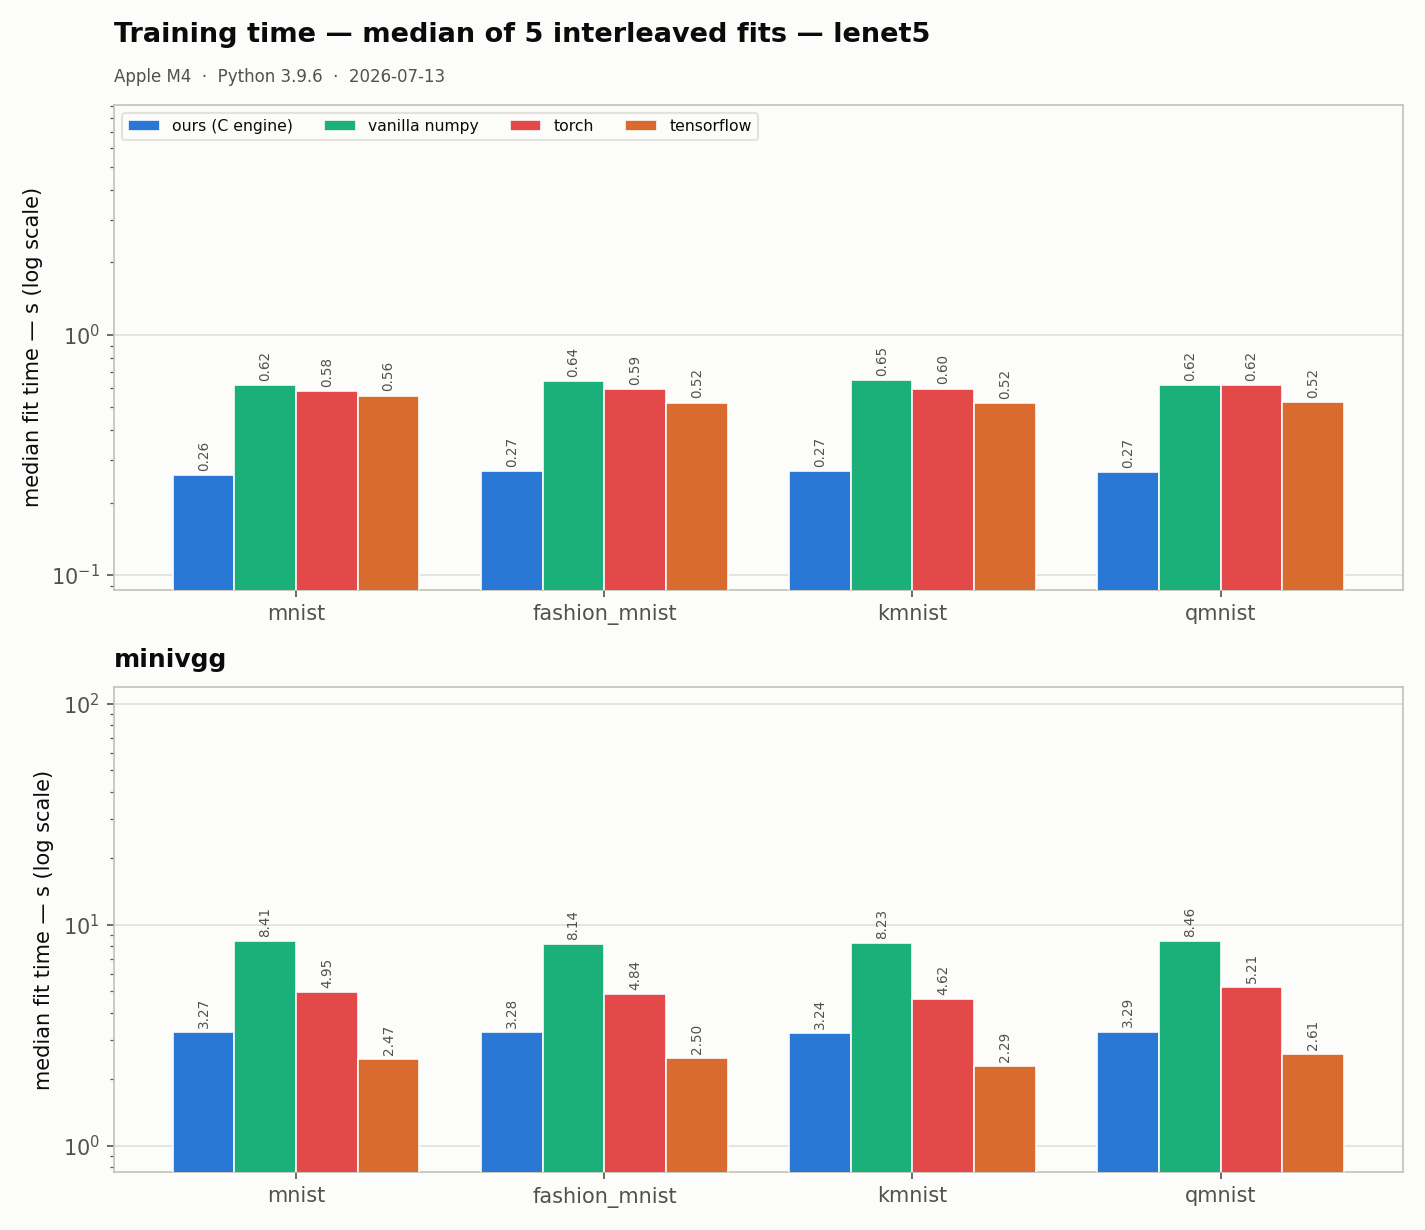
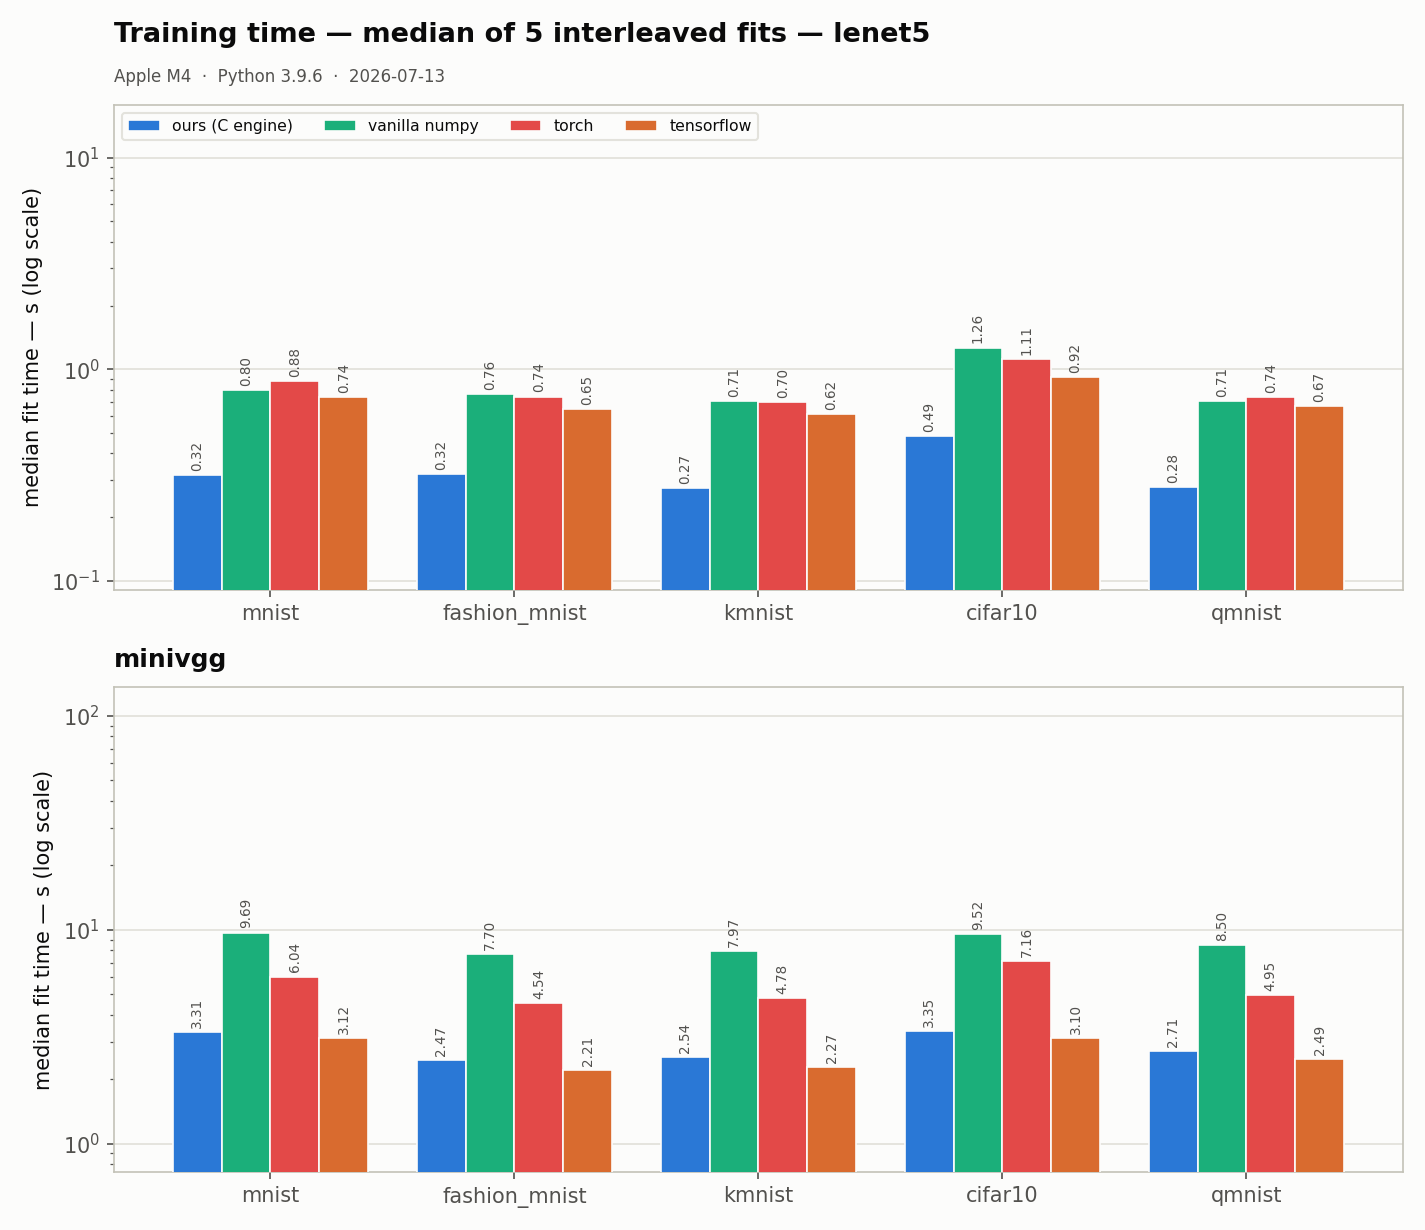
docs: v0.2.2 benchmark refresh — the VGG gap closes to a photo finish
Full re-run of the official protocol (5 interleaved repeats, identical
Sequential structure everywhere, CPU only) on mantissa 0.2.2, the
conv-GEMM release. As measured:

- minivgg/cifar10: ours 3.35 s fit / 165.9 ms predict vs tensorflow's
  3.10 / 160.4 — the 1.3x fit and 1.6x predict gaps recorded by the
  previous run close to 8% and 3%, at 47% less peak RSS (491 vs 923 MB).
  torch eager trails 2.1x.
- lenet5/mnist: ours 0.317 s vs torch 0.882 / tf 0.741 (2.3-2.8x),
  predict 10.2 ms — the small-net lead widens.
- Accuracy identical to the previous run for every contender (the
  engine rework is numerics-preserving at the training level).

Narrative updated to credit what changed and name what remains
(Winograd territory); plots regenerated from the new JSONs.

diff --git a/README.md b/README.md
@@ -187,19 +187,19 @@ convolutional layers, so it cannot run these architectures.
 
 | contender | fit (s) ↓ | predict (ms) ↓ | peak RSS (MB) ↓ | test acc |
 |-----------|----------:|---------------:|----------------:|---------:|
-| **ours (mantissa)** | **0.261** | **12.8** | **164** | 0.782 |
-| tensorflow | 0.558 | 49.8 | 619 | 0.846 |
-| torch | 0.582 | 16.2 | 372 | 0.762 |
-| vanilla numpy | 0.615 | 44.1 | 171 | 0.782 |
+| **ours (mantissa)** | **0.317** | **10.2** | **165** | 0.782 |
+| tensorflow | 0.741 | 69.4 | 496 | 0.846 |
+| torch | 0.882 | 22.8 | 340 | 0.762 |
+| vanilla numpy | 0.795 | 53.5 | 177 | 0.782 |
 
 **Mini-VGG on CIFAR-10** (32×32 RGB — the heavy, 3×3-block workload):
 
 | contender | fit (s) ↓ | predict (ms) ↓ | peak RSS (MB) ↓ | test acc |
 |-----------|----------:|---------------:|----------------:|---------:|
-| tensorflow | **3.120** | **201.4** | 714 | 0.187 |
-| **ours (mantissa)** | 4.085 | 327.4 | **498** | 0.303 |
-| torch | 6.532 | 320.5 | 657 | 0.288 |
-| vanilla numpy | 9.403 | 716.9 | 575 | 0.294 |
+| tensorflow | **3.102** | **160.4** | 923 | 0.187 |
+| **ours (mantissa)** | 3.351 | 165.9 | **491** | 0.292 |
+| torch | 7.163 | 266.1 | 658 | 0.288 |
+| vanilla numpy | 9.524 | 595.5 | 574 | 0.294 |
 
 ![median fit time per architecture/dataset per contender](assets/fit_time.png)
 ![test accuracy per architecture/dataset](assets/accuracy.png)
@@ -207,16 +207,18 @@ convolutional layers, so it cannot run these architectures.
 
 **The honest read.**
 - **LeNet-scale nets are ours across the board**: on all five datasets the
-  C engine fits ~2.1–2.2× faster than torch *and* tensorflow, runs the
-  fastest batch predict, and holds the lowest peak RSS (2.3–3.8× under the
+  C engine fits ~2.3–2.8× faster than torch *and* tensorflow, runs the
+  fastest batch predict, and holds the lowest peak RSS (2.1–3.0× under the
   frameworks on MNIST). At this scale the frameworks pay per-op dispatch
   and graph overhead that a thin C core simply doesn't have.
-- **The heavy VGG blocks belong to TensorFlow — for now**: its compiled
-  graph and fused, decades-tuned GEMMs take minivgg fit (1.3× over us) and
-  batch predict. We still beat torch's eager mode by ~1.6× there, and keep
-  the lowest memory of all four. The gap localizes to big-channel 3×3
-  convolutions (im2col + our register-blocked GEMM vs. fused kernels) —
-  that's the engine's next optimization target, and it is recorded as such.
+- **The heavy VGG blocks are now a photo finish**: the first run of this
+  table had TensorFlow's compiled graph 1.3× ahead on minivgg fit and
+  1.6× on predict. That gap was recorded as the engine's next target, and
+  mantissa v0.2.2 (batch-whole panel-packed GEMM + a NEON 6×16
+  micro-kernel, 148 → 363 GFLOP/s on the VGG-block shape) closed it to
+  **8% on fit and 3% on predict** — at 47% less peak memory than
+  TensorFlow. torch's eager mode trails ours 2.1× here. The remainder is
+  Winograd territory, and it is recorded as such.
 - **Accuracy lands in the same band for everyone** on each pair — same
   structure, same budget, different init/shuffle streams (seeded per
   framework; they cannot be made bit-identical across libraries). Nobody
@@ -236,7 +238,8 @@ framework's defaults and recorded in the JSON. All raw samples live in
 `bench/results/` (regenerable, gitignored).
 
 **Environment.** Apple M4 · Python 3.9.6 · numpy 2.0.2 · torch 2.8.0 ·
-tensorflow 2.20.0 · mantissa 0.2.1 (f32 CNN primitives) · 2026-07-13.
+tensorflow 2.20.0 · mantissa 0.2.2 (f32 CNN primitives, conv-GEMM release) ·
[phone redacted].
 Reproduce: `python -m bench.speed && python -m bench.accuracy && python -m
 bench.plots`.
 <!-- END:BENCH -->